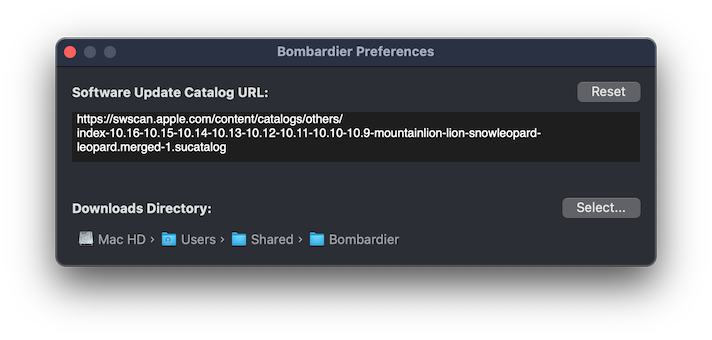
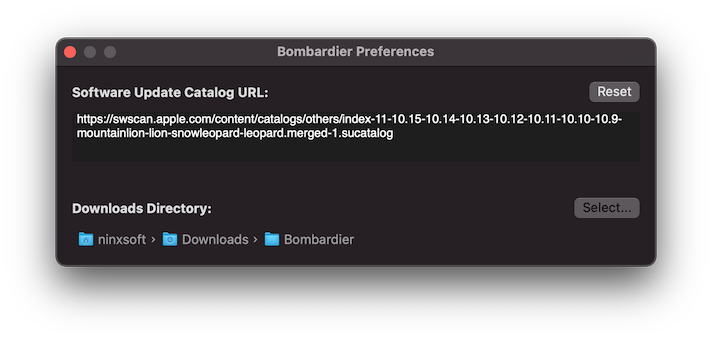
Updated default SUCatalog

Changed region(s): [[0.0927, 0.2353, 0.8961, 0.4706], [0.0927, 0.6765, 0.5562, 0.7353], [0.7725, 0.5882, 0.8961, 0.6471]]

diff --git a/Bombardier/Model/Preferences.swift b/Bombardier/Model/Preferences.swift
@@ -16,7 +16,7 @@ class Preferences: ObservableObject {
 
     static let shared: Preferences = Preferences()
     // swiftlint:disable:next line_length
-    static let defaultSoftwareUpdateCatalogURL: String = "https://swscan.apple.com/content/catalogs/others/index-10.16-10.15-10.14-10.13-10.12-10.11-10.10-10.9-mountainlion-lion-snowleopard-leopard.merged-1.sucatalog"
+    static let defaultSoftwareUpdateCatalogURL: String = "https://swscan.apple.com/content/catalogs/others/index-11-10.15-10.14-10.13-10.12-10.11-10.10-10.9-mountainlion-lion-snowleopard-leopard.merged-1.sucatalog"
     static let defaultDownloadsDirectory: String = NSHomeDirectory() + "/Downloads/Bombardier"
     static let bombardierURL: String = "https://raw.githubusercontent.com/ninxsoft/Bombardier/master/Bombardier.plist"
     @Published var softwareUpdateCatalogURL: String = Preferences.defaultSoftwareUpdateCatalogURL
